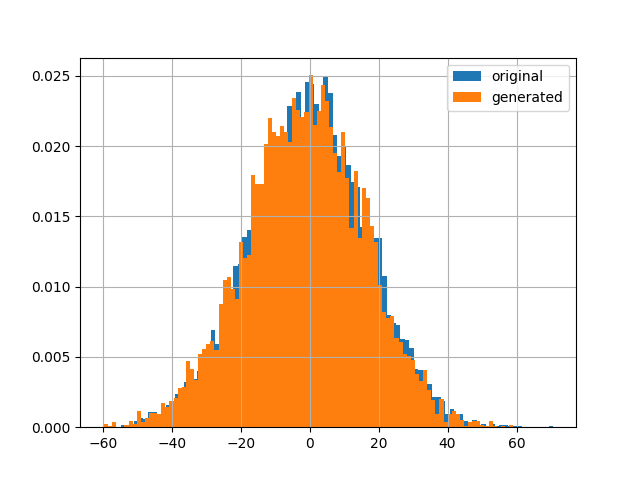
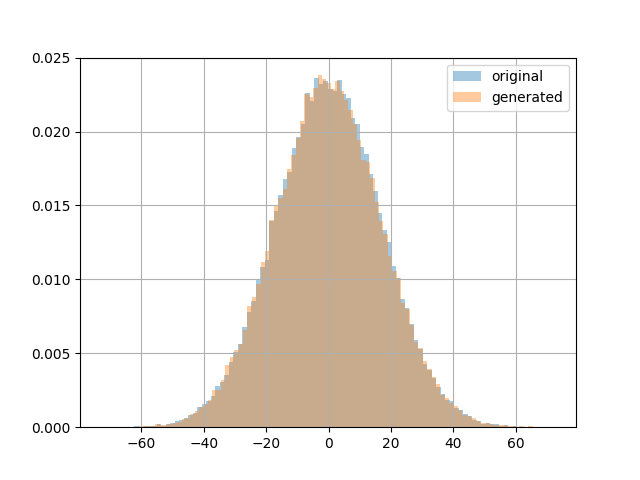
Update examples and readme

diff --git a/examples/example_two_normals.py b/examples/example_two_normals.py
@@ -4,18 +4,18 @@ import numpy as np
 import pandas as pd
 
 if __name__ == "__main__":
-    data = np.zeros((10000, 2))
+    data = np.zeros((100000, 2))
     data[:, 0] = np.random.normal(size = data.shape[0], loc = 0, scale = 17)
     data[:, 1] = data[:, 0] + np.random.normal(size = data.shape[0], loc = 6, scale = 1)
 
     norta = Norta(data)
-    samples = norta.generate_samples(n_samples=10000, n_bins = 150)
+    samples = norta.generate_samples(n_samples=100000, n_bins = 150)
 
     for i in range(data.shape[1]):
         df = pd.DataFrame({'original':  data[:, i], 'generated': samples[:, i]})
 
-        df['original'].hist(bins = 100, density = 1, legend = "original")
-        df['generated'].hist(bins = 100, density = 1, legend = "generated")
+        df['original'].hist(bins = 100, density = 1, legend = "original", alpha = 0.4)
+        df['generated'].hist(bins = 100, density = 1, legend = "generated", alpha = 0.4)
 
         plt.show()
         plt.close()

diff --git a/README.md b/README.md
@@ -36,29 +36,30 @@ import numpy as np
 import pandas as pd
 
 if __name__ == "__main__":
-    data = np.zeros((10000, 2))
+    data = np.zeros((100000, 2))
     data[:, 0] = np.random.normal(size = data.shape[0], loc = 0, scale = 17)
     data[:, 1] = data[:, 0] + np.random.normal(size = data.shape[0], loc = 6, scale = 1)
 
     norta = Norta(data)
-    samples = norta.generate_samples(n_samples=10000, n_bins = 150)
+    samples = norta.generate_samples(n_samples=100000, n_bins = 150)
 
     for i in range(data.shape[1]):
         df = pd.DataFrame({'original':  data[:, i], 'generated': samples[:, i]})
 
-        df['original'].hist(bins = 100, density = 1, legend = "original")
-        df['generated'].hist(bins = 100, density = 1, legend = "generated")
+        df['original'].hist(bins = 100, density = 1, legend = "original", alpha = 0.4)
+        df['generated'].hist(bins = 100, density = 1, legend = "generated", alpha = 0.4)
 
         plt.show()
         plt.close()
+
 
 ```
 
 wich outputs:
 
 ```bash
-Computing cfds: 100%|█████████████████████████████████████████████████████████████████████████████████████████████████████████████████████████████████████████████████████████████████████████| 2/2 [00:00<00:00, 3677.60it/s]
-Generating samples: 100%|████████████████████████████████████████████████████████████████████████████████████████████████████████████████████████████████████████████████████████████| 10000/10000 [00:00<00:00, 46447.01it/s]
+Computing cfds: 100%|██████████████████████████████████████████████████████████| 2/2 [00:00<00:00, 999.12it/s]
+Generating samples: 100%|██████████████████████████████████████████| 100000/100000 [00:02<00:00, 48154.00it/s]
 ```
 
 and plots:
